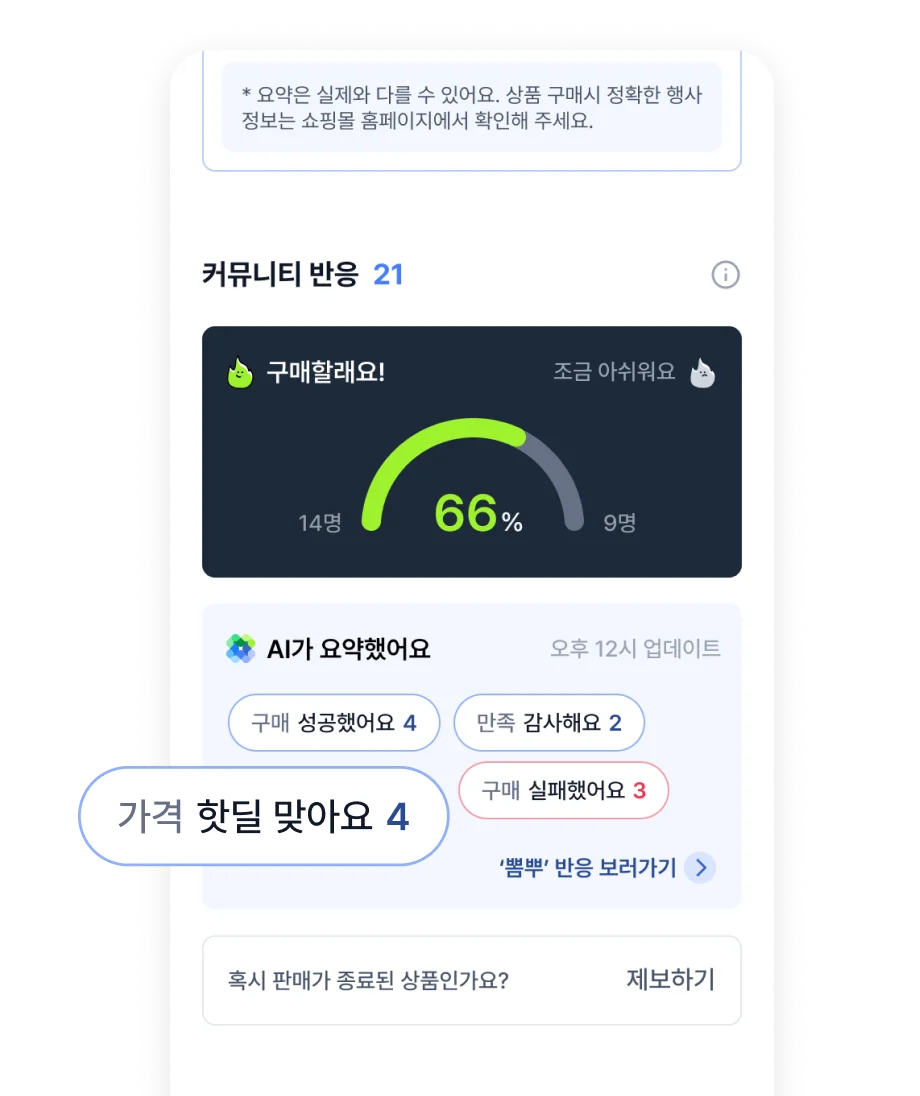
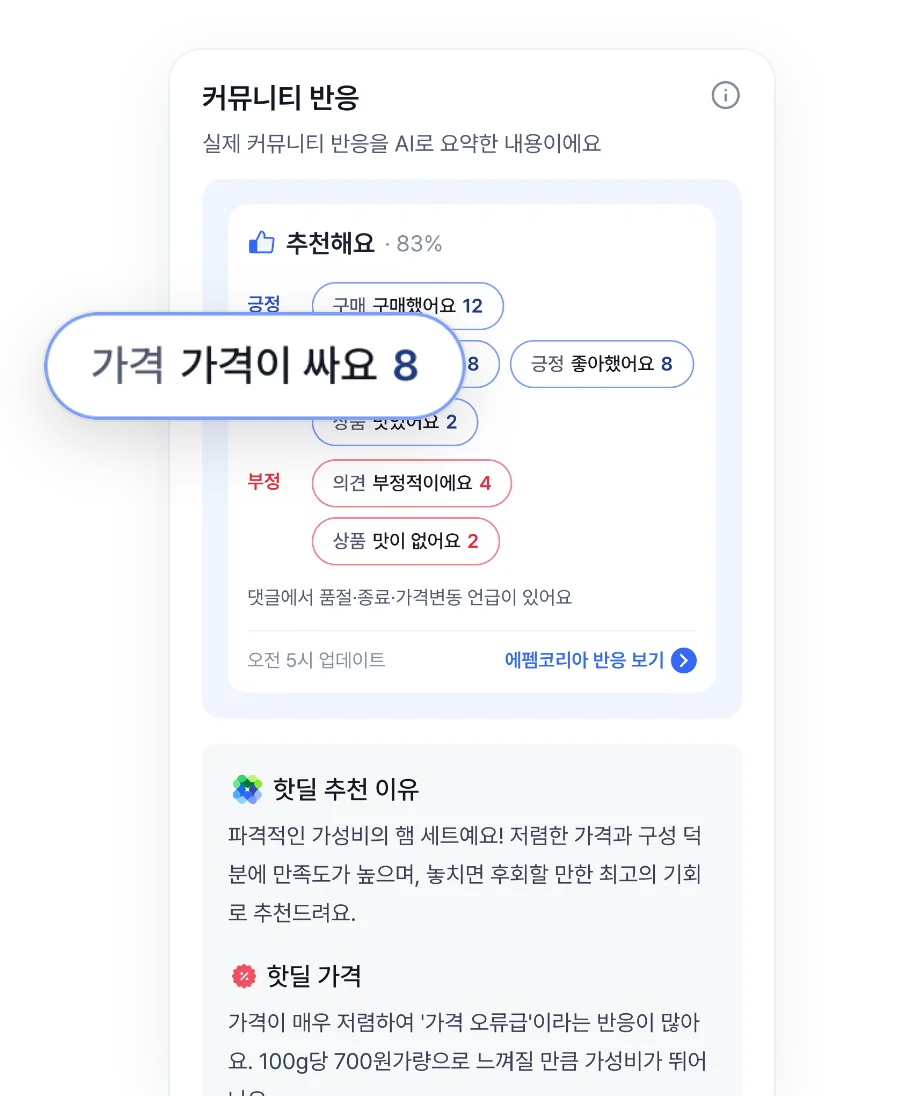
feat(landing): 서비스 소개 이미지를 지금 화면으로 바꾼다 — 사라진 "대박딜/핫딜" 뱃지 대신 가격 추이
옛 이미지 3장이 지금 UI 와 달랐다: 랭킹 화면이 바뀌었고, AI 요약의 "구매할래요 66%" 게이지와
상세의 "대박딜/핫딜" 뱃지·"할인 지수" 는 코드에서 사라졌다.

- 1 카테고리: 새 랭킹 화면 + 카테고리 칩
- 3 AI요약: 새 커뮤니티 반응 카드 + "가격이 싸요" 칩
- 4 최저가 → 가격 추이: 최저·현재·최고가 박스. 문구도 화면대로 바꿈
  ("비슷한 상품 핫딜을 모아 참고용" 이라 최저가를 단정하지 않는다)
- 2 키워드 알림은 유지(로그인 화면이라 캡처 불가, 코드상 UI 동일)

운영 web 을 375px·DPR3 으로 캡처해 옛 이미지와 같은 배치(카드 85/25/302px)로 합성했다.
캡처에서는 앱 설치 팝업을 닫고 애드센스 자동광고 칩(google-anno)을 걷어냈다.

diff --git a/apps/landing/src/app/components/service-introduction/ServiceIntroduction.tsx b/apps/landing/src/app/components/service-introduction/ServiceIntroduction.tsx
@@ -53,14 +53,15 @@ const ServiceIntroduction = () => {
         </Content.Wrapper>
       </Content>
       <Content>
-        <Content.Image src="/assets/images/intro-4.webp" alt="최저가" />
+        <Content.Image src="/assets/images/intro-4.webp" alt="가격 추이" />
         <Content.Wrapper>
-          <Content.Keyword>최저가</Content.Keyword>
-          <Content.Title>여기가 제일 저렴해요</Content.Title>
+          <Content.Keyword>가격 추이</Content.Keyword>
+          <Content.Title>지금 가격, 싼 편일까?</Content.Title>
+          {/* 상세의 가격 추이는 "비슷한 상품 핫딜을 모아 참고용" 이다 — 최저가를 단정하지 않는다. */}
           <Content.Description>
-            어디서 사야 가장 저렴할까? 고민할 필요 없어요.
+            비슷한 상품의 지난 핫딜 가격을 모아
             <br />
-            할인 지수로 최저가를 확인해보세요.
+            최저가·최고가와 지금 가격을 비교해 드려요.
           </Content.Description>
         </Content.Wrapper>
       </Content>
